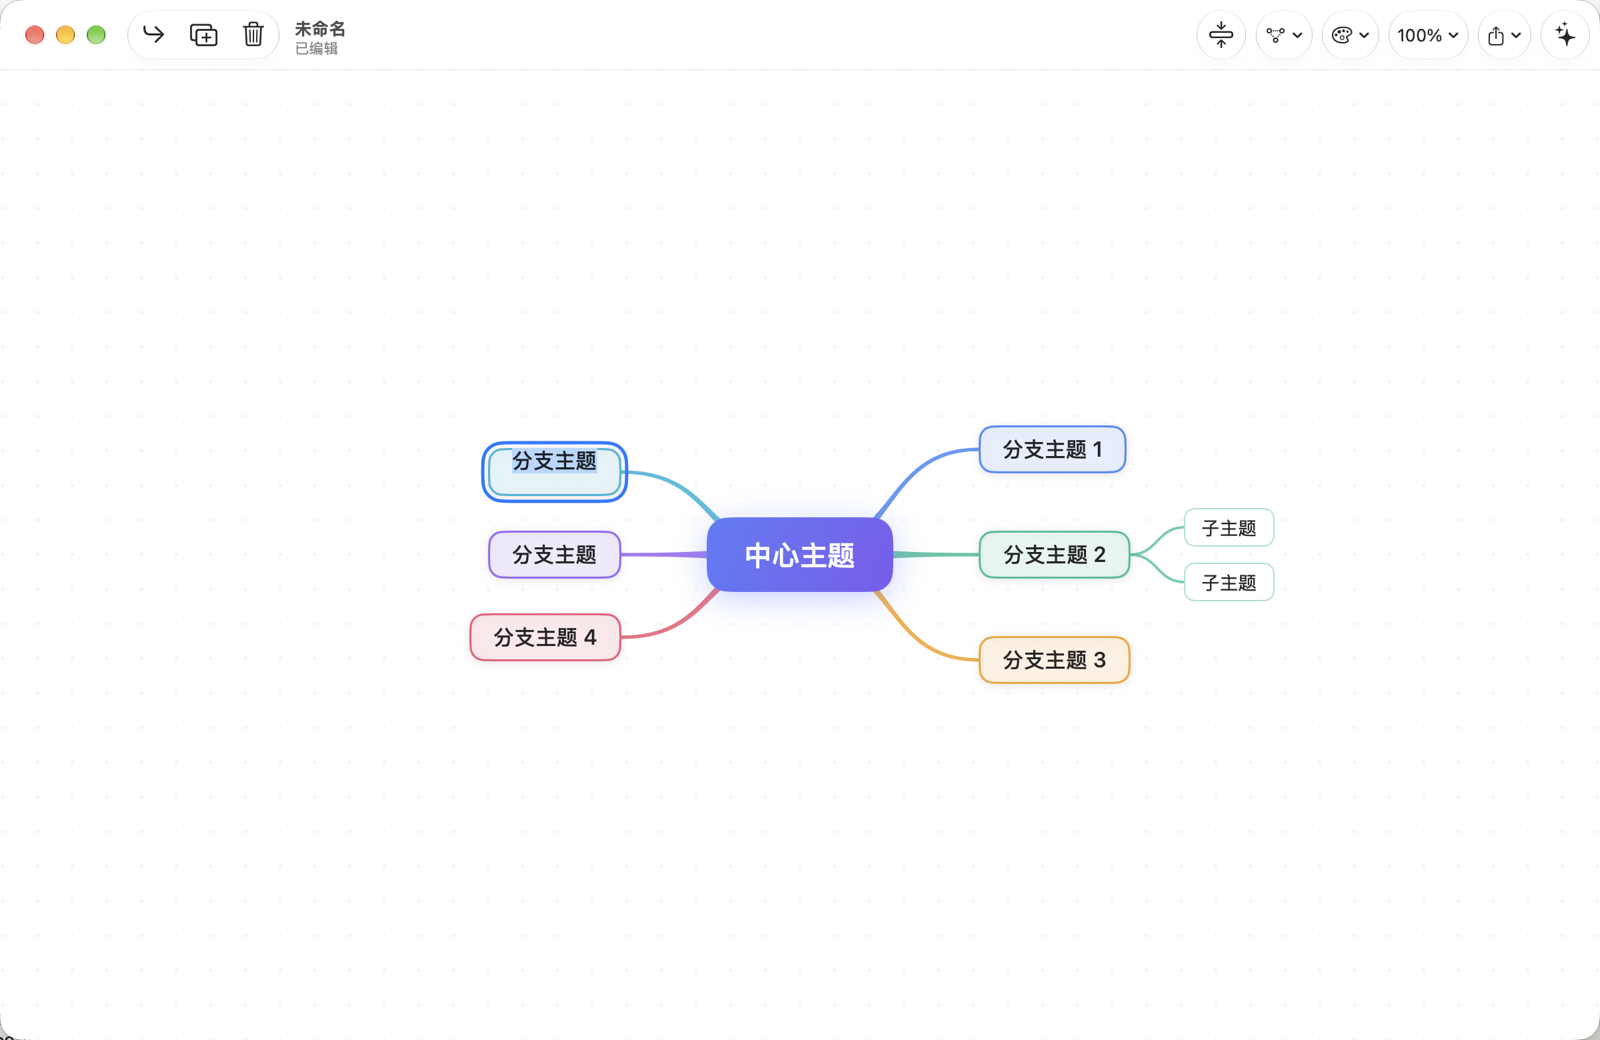
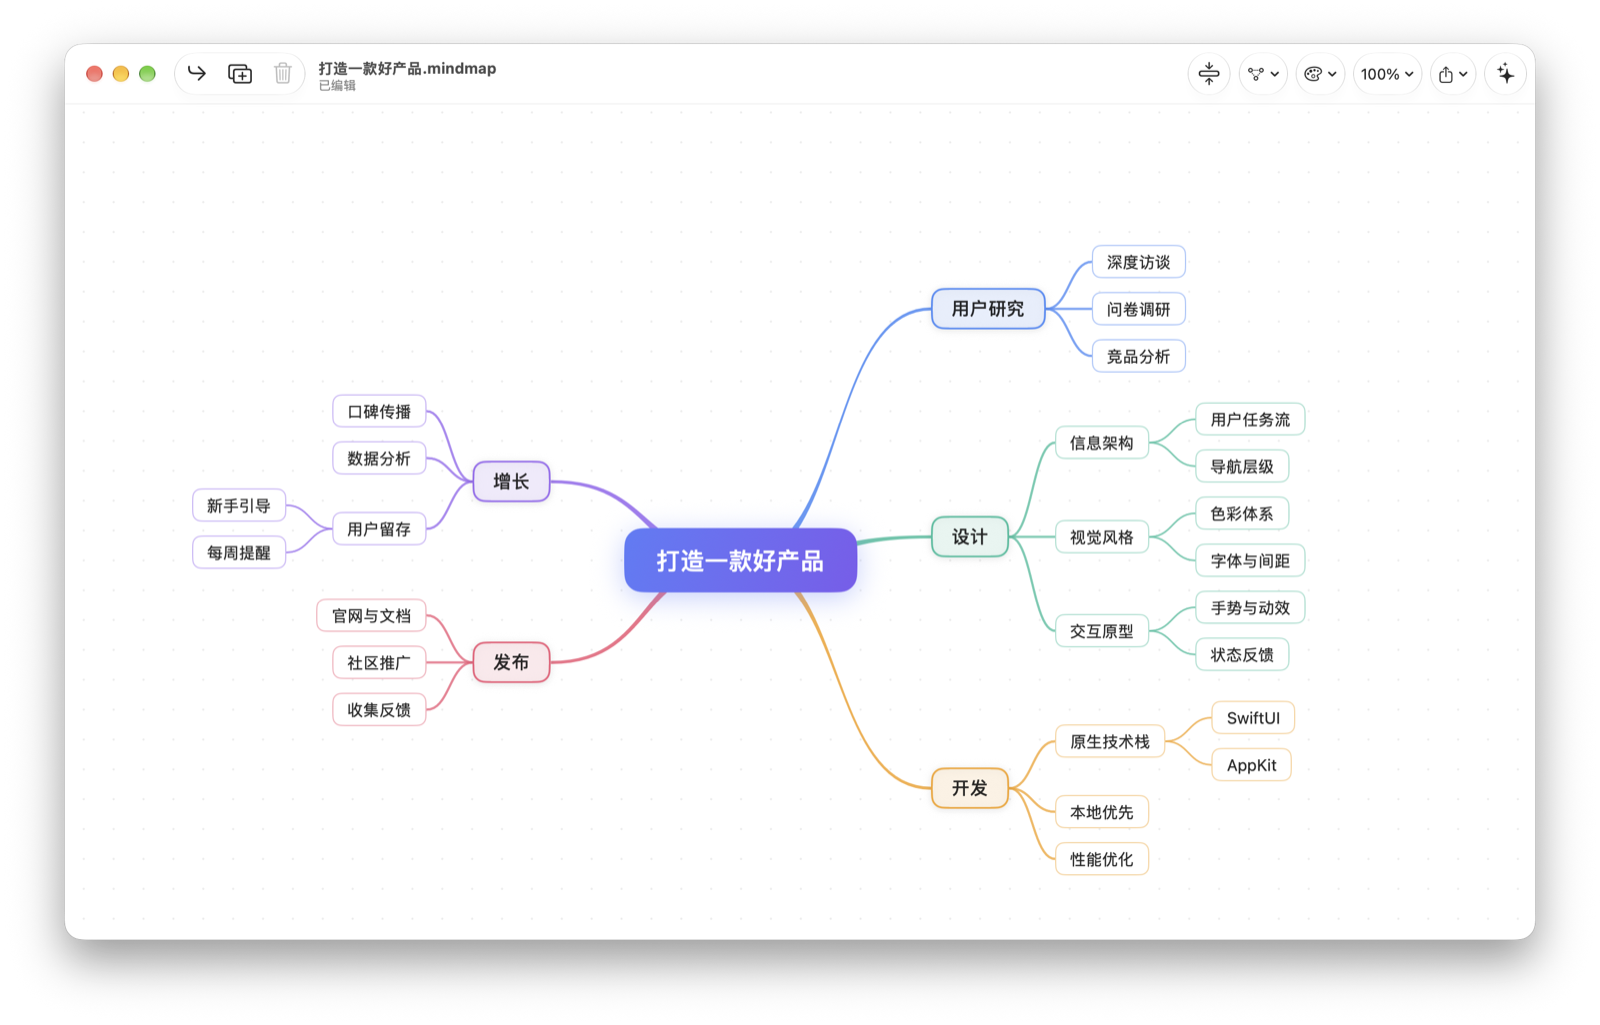
Polish README with screenshots, feature grid and shortcuts; fix AI undo availability

diff --git a/Sources/MindFlow/AI/ChatModel.swift b/Sources/MindFlow/AI/ChatModel.swift
@@ -16,6 +16,7 @@ struct ChatMessage: Identifiable {
     var opsSummary: String?
     var before: MapData?
     var after: MapData?
+    var revision: Int?
     var model: String?
 }
 
@@ -184,12 +185,14 @@ final class ChatModel {
         }
         map.commitEdit()
         let before = map.data
-        var result = OpsResult()
-        map.mutate { d in result = MapAgent.apply(ops, context: ctx, selection: map.selection, to: &d) }
-        let after = map.data
+        var after = before
+        let result = MapAgent.apply(ops, context: ctx, selection: map.selection, to: &after)
+        let snapshot = after
+        map.mutate { $0 = snapshot }
         update(sid, id) { m in
             m.before = before
             m.after = after
+            m.revision = map.revision
             m.opsSummary = result.summary + (result.failures > 0 ? "（\(result.failures) 项未能应用）" : "")
             m.opsState = result.isEmpty ? .failed : .applied
         }
@@ -203,7 +206,7 @@ final class ChatModel {
     }
 
     func canRevert(_ m: ChatMessage) -> Bool {
-        m.opsState == .applied && m.after == map.data
+        m.opsState == .applied && m.revision == map.revision
     }
 
     func insertIntoMap(_ id: UUID) {

diff --git a/Sources/MindFlow/MapViewModel.swift b/Sources/MindFlow/MapViewModel.swift
@@ -22,6 +22,8 @@ final class MapViewModel {
     var dragOffset: CGSize = .zero
     var dropTargetID: UUID?
     var focusTick = 0
+    /// Bumped on every edit made through `mutate`; observable, unlike the document binding.
+    var revision = 0
 
     // MARK: Data
 
@@ -34,7 +36,10 @@ final class MapViewModel {
         guard let document else { return }
         var d = document.wrappedValue.data
         body(&d)
-        if d != document.wrappedValue.data { document.wrappedValue.data = d }
+        if d != document.wrappedValue.data {
+            document.wrappedValue.data = d
+            revision += 1
+        }
     }
 
     // MARK: Coordinates

diff --git a/README.md b/README.md
@@ -1,66 +1,163 @@
-<p align="center">
-  <img src="docs/icon.png" width="128" alt="MindFlow icon">
-</p>
+<div align="center">
 
-<h1 align="center">MindFlow</h1>
+<img src="docs/icon.png" width="140" alt="MindFlow">
 
-<p align="center">原生、美观、轻量的 macOS 思维导图，内置 AI 助手。</p>
+# MindFlow
 
-<p align="center">
-  <img src="docs/screenshot.png" width="820" alt="MindFlow screenshot">
-</p>
+**原生 · 美观 · 轻量的 macOS 思维导图，内置 AI 助手**
 
-## 特性
+想法如流水，落笔即成图。
 
-- **纯原生**：SwiftUI + AppKit 编写，无第三方依赖，App 体积不到 2 MB
-- **好看**：锥形渐变主干、柔和曲线分支、5 套配色，自动跟随浅色/深色模式
-- **键盘优先**：`Tab` 子主题、`Return` 同级、`Space` 编辑、方向键移动、`⌫` 删除、`/` 折叠
-- **顺手的鼠标操作**：选中主题旁的 ➕ 一键加子主题；拖动节点改变父级；双指平移、捏合或 `⌘` + 滚轮缩放
-- **两种布局**：平衡（左右分布）与向右
-- **原生文档**：`.mindmap`（JSON），支持撤销/重做、自动保存、版本历史、多窗口与标签页
-- **导出**：PNG 图片（2×）、XMind（兼容 XMind 2020+ 与 XMind 8）、Markdown、文本大纲
+[![Release](https://img.shields.io/github/v/release/245678000000/MindFlow?style=flat-square&color=6E5CF0&label=版本)](https://github.com/245678000000/MindFlow/releases/latest)
+[![Downloads](https://img.shields.io/github/downloads/245678000000/MindFlow/total?style=flat-square&color=52C9A8&label=下载)](https://github.com/245678000000/MindFlow/releases)
+![macOS](https://img.shields.io/badge/macOS-14%2B-111?style=flat-square&logo=apple&logoColor=white)
+![Swift](https://img.shields.io/badge/Swift-5.9-F05138?style=flat-square&logo=swift&logoColor=white)
+[![License](https://img.shields.io/badge/license-MIT-5BC6FF?style=flat-square)](LICENSE)
 
-## AI 助手
+<br>
 
-按 `⌘J` 打开侧边栏。
+<a href="https://github.com/245678000000/MindFlow/releases/latest">
+  <img src="https://img.shields.io/badge/⬇%20下载%20MindFlow-for%20macOS-6E5CF0?style=for-the-badge" alt="下载">
+</a>
 
-- **代理模式**：AI 直接修改导图——扩展、改写、移动、删除，或从零生成整张图；每次修改都可一键撤销
-- **问答模式**：只回答问题；回答中的列表可一键插入到选中主题下
-- 支持 **Anthropic Messages**、**OpenAI Chat Completions**、**OpenAI Responses** 三种接口及各类兼容服务，流式输出
-- 可从本机的 **cc-switch**、**magpie** 一键导入服务商配置，也可从文件导入；读取只在本地进行
+<sub>Universal 二进制 · Apple 芯片与 Intel 通用 · 不到 2 MB</sub>
 
-> API Key 保存在 `~/Library/Application Support/MindFlow/providers.json`（权限 600），不会上传到任何地方。
+<br><br>
 
-## 下载
+<img src="docs/screenshot.png" width="880" alt="MindFlow 主界面">
 
-到 [Releases](https://github.com/245678000000/MindFlow/releases/latest) 下载最新的 `MindFlow-x.y.z.zip`，解压后拖到「应用程序」。App 内置检查更新（菜单 MindFlow › 检查更新…），有新版本时可一键安装。
+</div>
 
-## 构建
+<br>
 
-需要 macOS 14+ 与 Xcode Command Line Tools（无需完整 Xcode）。
+## ✨ 为什么是 MindFlow
+
+<table>
+<tr>
+<td width="33%" valign="top">
+
+### 🍃 轻
+纯 SwiftUI + AppKit，零第三方依赖。秒开，安装包不到 2 MB，除 AI 与检查更新外从不联网。
+
+</td>
+<td width="33%" valign="top">
+
+### 🎨 美
+锥形渐变主干、柔和贝塞尔分支、点阵画布，5 套精心调配的主题，自动适配浅色 / 深色模式。
+
+</td>
+<td width="33%" valign="top">
+
+### ⚡ 快
+键盘优先：一个 `Tab` 一个想法。也可以点选中主题旁的 **＋**，拖拽节点改换父级。
+
+</td>
+</tr>
+</table>
+
+<br>
+
+## 🤖 AI 助手
+
+<img src="docs/ai.png" width="880" alt="MindFlow AI 助手">
+
+按 <kbd>⌘</kbd> <kbd>J</kbd> 打开侧边栏，用一句话改导图。
+
+| | |
+|---|---|
+| **代理模式** | AI 直接动手：扩展分支、改写措辞、调整结构，或从零生成整张图。每次修改都能**一键撤销** |
+| **问答模式** | 只聊不改。回答里的列表可一键插入到选中的主题下 |
+| **接口** | Anthropic Messages · OpenAI Chat Completions · OpenAI Responses，以及各类兼容服务，流式输出 |
+| **一键导入** | 从本机的 **cc-switch**、**magpie** 读取服务商配置，或从文件导入，全程本地完成 |
+
+> [!NOTE]
+> API Key 只保存在本机 `~/Library/Application Support/MindFlow/providers.json`（权限 `600`），请求直接发往你配置的服务商，MindFlow 不经手任何数据。
+
+<br>
+
+## 🧩 功能一览
+
+- **两种布局**：平衡（左右分布）/ 向右展开
+- **原生文档**：`.mindmap`（JSON）格式，支持撤销重做、自动保存、版本历史、多窗口与标签页
+- **导出**：PNG 高清图（2×）· **XMind**（兼容 XMind 2020+ 与 XMind 8）· Markdown · 文本大纲
+- **手势**：双指平移，捏合或 <kbd>⌘</kbd> + 滚轮缩放，一键适应窗口
+- **自动更新**：基于 GitHub Releases，有新版本时一键下载、替换、重启
+
+<br>
+
+## ⌨ 快捷键
+
+<table>
+<tr><th>编辑</th><th></th><th>视图</th><th></th></tr>
+<tr><td><kbd>Tab</kbd></td><td>添加子主题</td><td><kbd>⌘</kbd> <kbd>=</kbd> / <kbd>⌘</kbd> <kbd>-</kbd></td><td>放大 / 缩小</td></tr>
+<tr><td><kbd>Return</kbd></td><td>添加同级主题</td><td><kbd>⌘</kbd> <kbd>0</kbd></td><td>实际大小</td></tr>
+<tr><td><kbd>Space</kbd></td><td>编辑文字</td><td><kbd>⌘</kbd> <kbd>9</kbd></td><td>适应窗口</td></tr>
+<tr><td><kbd>⌫</kbd></td><td>删除主题</td><td><kbd>⌘</kbd> <kbd>J</kbd></td><td>AI 助手</td></tr>
+<tr><td><kbd>/</kbd></td><td>折叠 / 展开</td><td><kbd>⇧</kbd> <kbd>⌘</kbd> <kbd>E</kbd></td><td>导出图片</td></tr>
+<tr><td><kbd>←</kbd> <kbd>↑</kbd> <kbd>↓</kbd> <kbd>→</kbd></td><td>在主题间移动</td><td><kbd>Esc</kbd></td><td>取消编辑</td></tr>
+</table>
+
+<br>
+
+## 📦 安装
+
+1. 从 [**Releases**](https://github.com/245678000000/MindFlow/releases/latest) 下载 `MindFlow-x.y.z.zip`
+2. 解压，把 **MindFlow.app** 拖进「应用程序」
+3. 首次打开如提示「无法验证开发者」，右键 → **打开** 即可；或执行：
 
 ```sh
-./build.sh
+xattr -dr com.apple.quarantine /Applications/MindFlow.app
+```
+
+<br>
+
+## 🛠 从源码构建
+
+只需 macOS 14+ 与 Xcode Command Line Tools，**不需要完整 Xcode**。
+
+```sh
+git clone https://github.com/245678000000/MindFlow.git
+cd MindFlow
+./build.sh              # 本机架构
+./build.sh universal    # Apple 芯片 + Intel 通用二进制
 open build/MindFlow.app
 ```
 
-App 使用 ad-hoc 签名。首次打开若提示无法验证开发者，请右键 → 打开，或执行 `xattr -dr com.apple.quarantine /Applications/MindFlow.app`。
+<details>
+<summary><b>发布新版本</b></summary>
 
-发布新版本：`scripts/release.sh 1.1.0 "更新说明"`（通用二进制，自动打包并创建 GitHub Release）。
+```sh
+scripts/release.sh 1.1.0 "更新说明"
+```
 
-## 快捷键
+会自动写入版本号、构建通用二进制、打包 zip、打 tag 并创建 GitHub Release，已安装的 App 会在下次检查时收到更新。
 
-| 操作 | 快捷键 |
-| --- | --- |
-| 添加子主题 / 同级主题 | `Tab` / `Return` |
-| 编辑文字 | `Space` 或双击 |
-| 删除 / 折叠 | `⌫` / `/` |
-| 选择相邻主题 | 方向键 |
-| 缩放 | `⌘=` / `⌘-` / `⌘0`，或 `⌘` + 滚轮 |
-| 适应窗口 | `⌘9` 或双击空白处 |
-| AI 助手 | `⌘J` |
-| 导出图片 | `⇧⌘E` |
+</details>
 
-## 许可
+<details>
+<summary><b>项目结构</b></summary>
 
-[MIT](LICENSE)
+```
+Sources/MindFlow/
+├── App.swift              # 场景与菜单命令
+├── Model.swift            # 文档模型（.mindmap）
+├── Layout.swift           # 自动布局引擎
+├── MapCanvas.swift        # 画布、节点与连线绘制
+├── MindMapView.swift      # 主窗口与工具栏
+├── MapViewModel.swift     # 编辑、导航、缩放、导出
+├── XMindExporter.swift    # XMind 导出（内置 ZIP 写入）
+├── Updater.swift          # 检查更新
+└── AI/                    # 侧边栏、LLM 客户端、导图代理、服务商导入
+```
+
+</details>
+
+<br>
+
+## 📄 许可
+
+[MIT](LICENSE) © 2026 245678000000
+
+<div align="center">
+<sub>用 ❤ 和 SwiftUI 打造</sub>
+</div>
